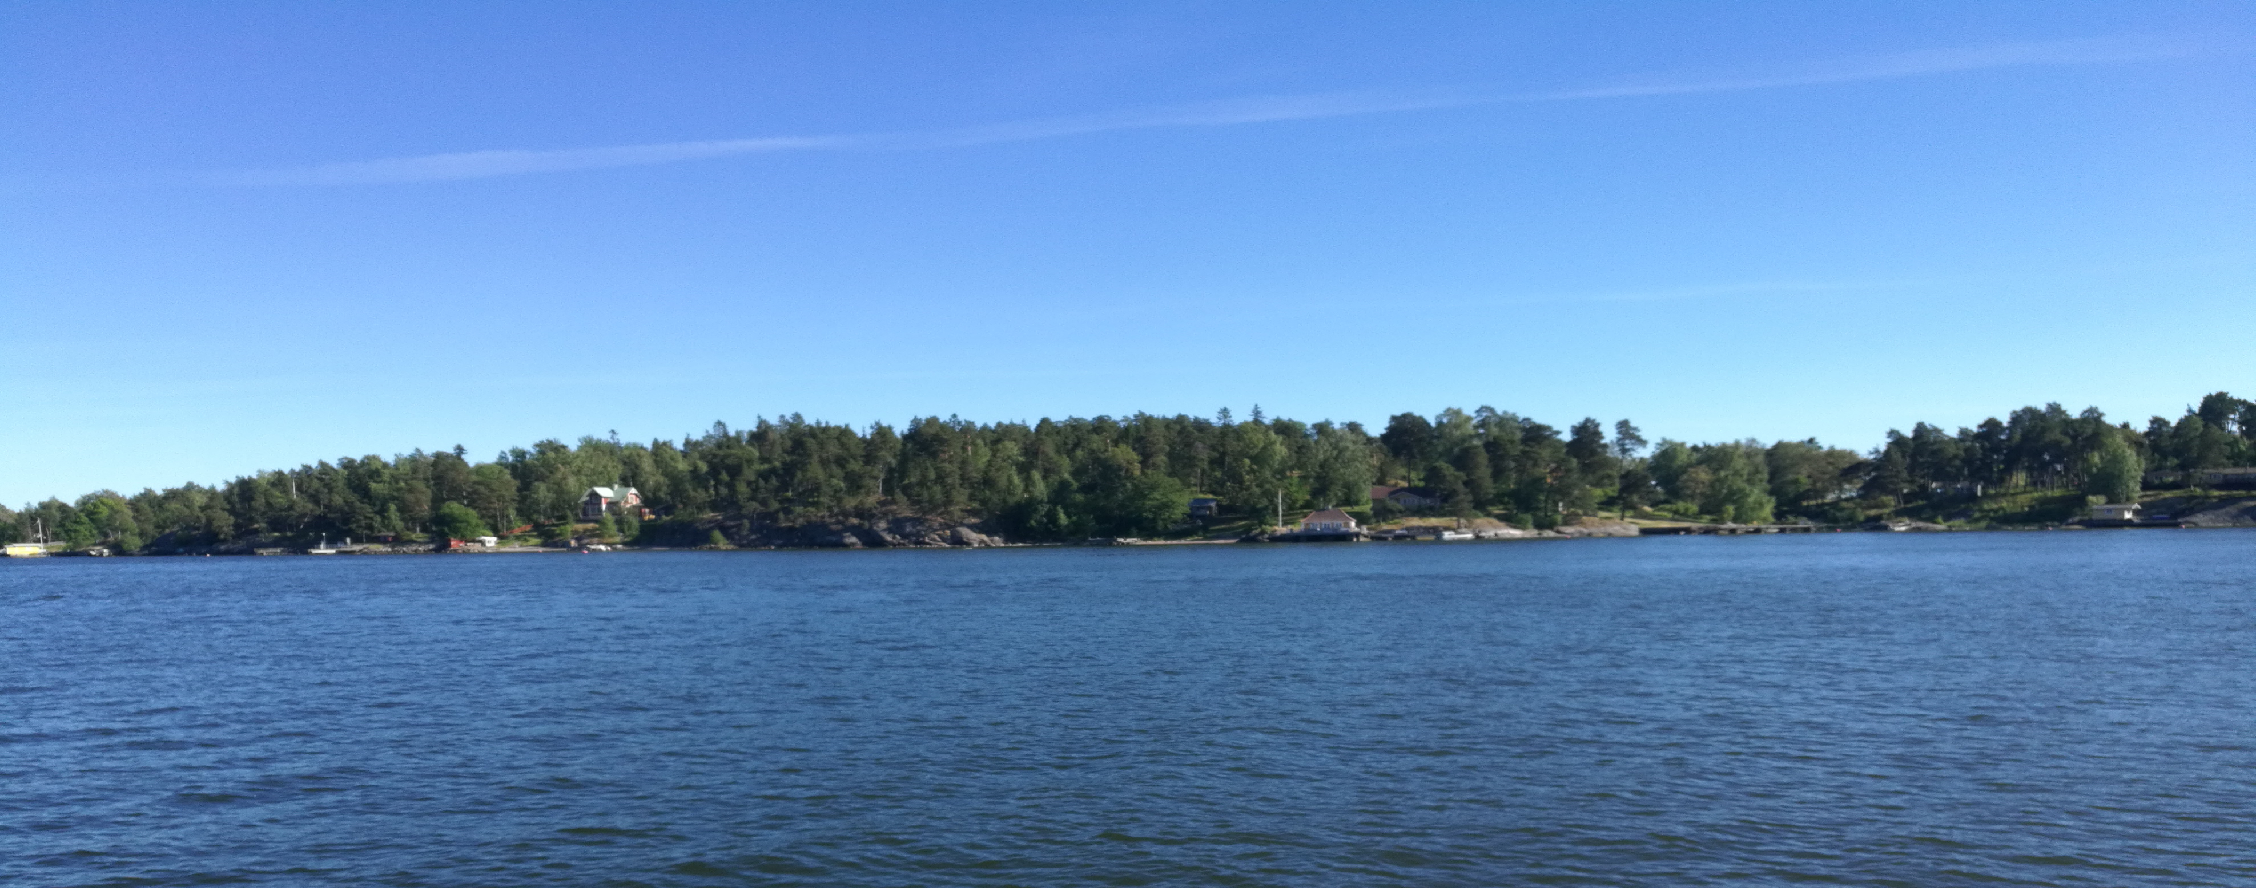
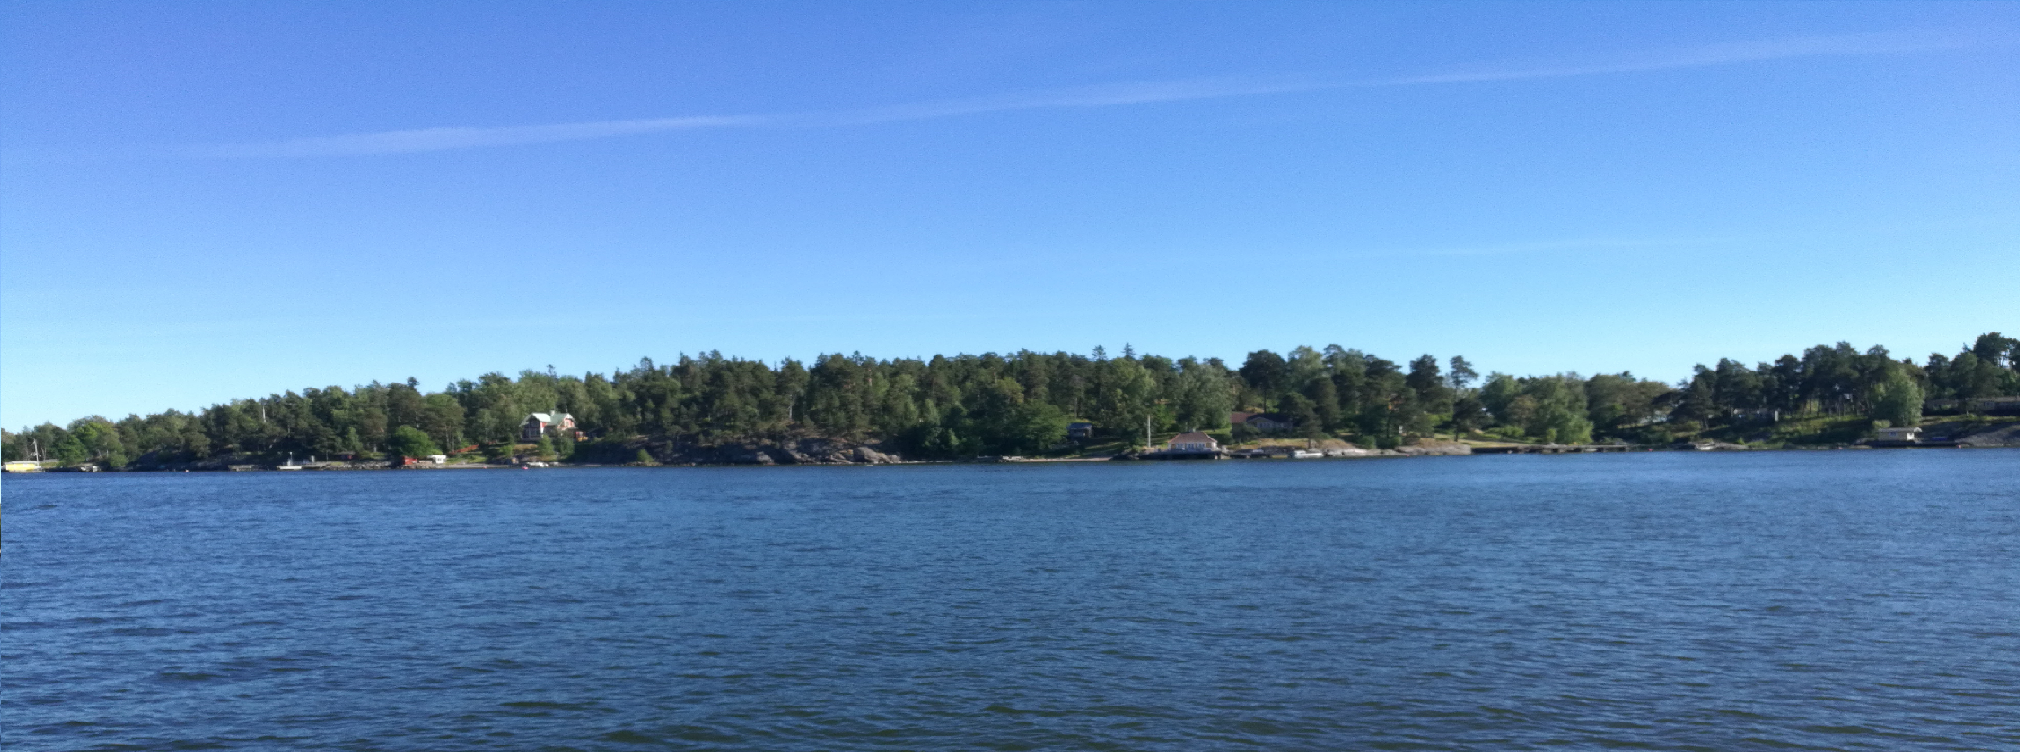
Activity background img

diff --git a/assets/css/style.css b/assets/css/style.css
@@ -39,7 +39,10 @@ body {
     height: 75vh;
 }
 
-
+.activity-vax-image {
+    background: url('../images/activity/activity-image.png') no-repeat;
+    height: 75vh;
+}
 
 /*jumbotron*/
 
